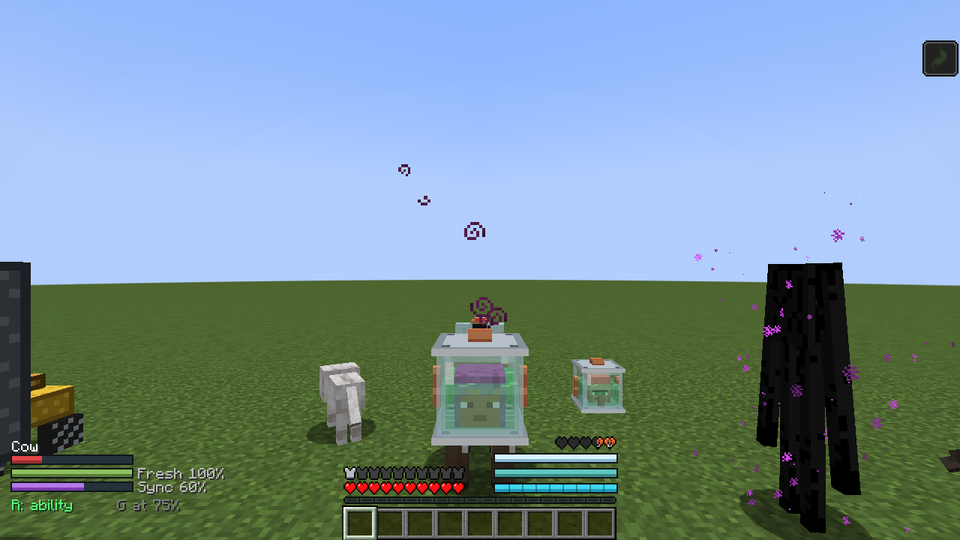
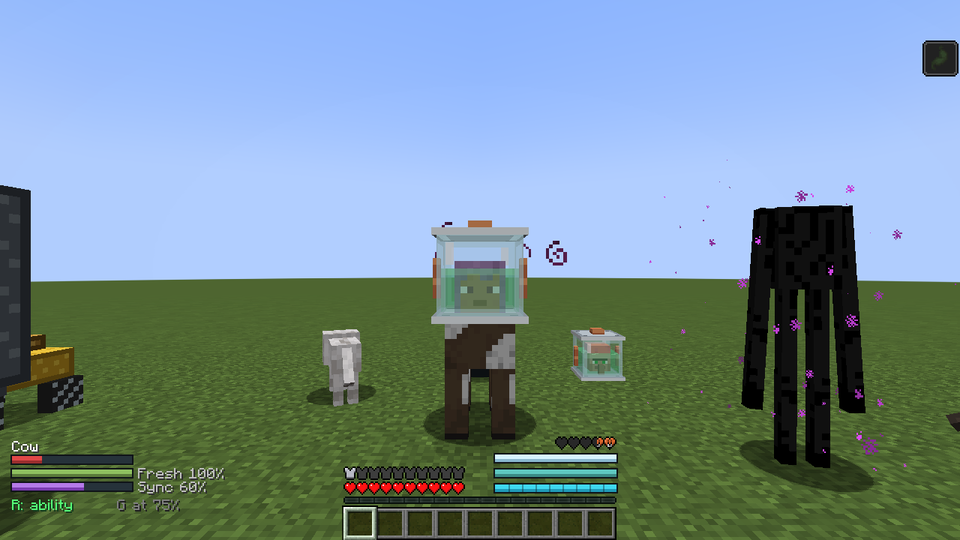
Seat the jar on a host's neck, square with its body
Riding a host the player had its full size back, and a full-size player rides 0.6 below the
seat, so the jar sank into every host's body (the Spider Walker's chassis showed inside the
glass). The jar now keeps its own size while hosted and sits on the neck. It also faces the
way the host's body faces instead of the rider's own body yaw, so it sits straight on the
neck; the head inside still looks where you look. README host pictures retaken.

diff --git a/src/smoke/java/com/coolfreeze23/headinajar/smoke/SmokeClient.java b/src/smoke/java/com/coolfreeze23/headinajar/smoke/SmokeClient.java
@@ -177,11 +177,19 @@ public class SmokeClient {
             }
             case "view" -> mc.options.setCameraType(net.minecraft.client.CameraType.values()[Integer.parseInt(parts[1])]);
             case "report" -> report.add(parts[1]);
+            // seatprobe ID,ID,...: renders each body with and without its head into a recorder and reports, in blocks from its
+            // feet (facing +Z): where the head was (centre x/z, lowest y) and the top of the body under a jar placed there
+            case "seatprobe" -> {
+                for (String id : parts[1].split(",")) report.add("seat " + id + " " + seatProbe(mc, id));
+            }
             // a real right-click, through the key binding, exactly as a player's mouse does it
             case "rightclick" -> net.minecraft.client.KeyMapping.click(mc.options.keyUse.getKey());
             case "riding" -> report.add("riding " + parts[1] + " -> " + (mc.player.getVehicle() == null ? "nothing"
                     : net.minecraft.core.registries.BuiltInRegistries.ENTITY_TYPE.getKey(mc.player.getVehicle().getType()))
-                    + " form=" + mc.player.getData(com.coolfreeze23.headinajar.registry.ModRegistry.JAR_STATE).form());
+                    + " form=" + mc.player.getData(com.coolfreeze23.headinajar.registry.ModRegistry.JAR_STATE).form()
+                    + (mc.player.getVehicle() instanceof net.minecraft.world.entity.LivingEntity v ? String.format(java.util.Locale.ROOT,
+                    " jarY-hostY=%.3f seatY=%.3f height=%.2f", mc.player.getY() - v.getY(),
+                    com.coolfreeze23.headinajar.host.HostControl.ridingPosition(v).y - v.getY(), mc.player.getBbHeight()) : ""));
             case "screen" -> mc.setScreen(switch (parts[1]) {
                 case "pause" -> new net.minecraft.client.gui.screens.PauseScreen(true);
                 default -> null;
@@ -541,5 +549,69 @@ public class SmokeClient {
         }
         LOGGER.info("SMOKE: finished, {} report lines", report.size());
         mc.stop();
+    }
+
+    private static String seatProbe(Minecraft mc, String id) {
+        var type = net.minecraft.core.registries.BuiltInRegistries.ENTITY_TYPE.get(net.minecraft.resources.ResourceLocation.parse(id));
+        var entity = type.create(mc.level);
+        if (!(entity instanceof net.minecraft.world.entity.LivingEntity living)) return "not living";
+        entity.setPos(0, 0, 0);
+        entity.setYRot(0);
+        living.yBodyRot = living.yBodyRotO = 0;
+        living.yHeadRot = living.yHeadRotO = 0;
+        java.util.List<org.joml.Vector3f> whole = record(mc, entity);
+        com.coolfreeze23.headinajar.host.Hosts.data(entity).host = true;
+        java.util.List<org.joml.Vector3f> headless = record(mc, entity);
+        java.util.Map<String, Integer> left = new java.util.HashMap<>();
+        for (var v : headless) left.merge(key(v), 1, Integer::sum);
+        java.util.List<org.joml.Vector3f> head = new java.util.ArrayList<>();
+        for (var v : whole) {
+            Integer n = left.get(key(v));
+            if (n != null && n > 0) left.put(key(v), n - 1);
+            else head.add(v);
+        }
+        float hx = 0, hz = 0, hMin = Float.MAX_VALUE;
+        for (var v : head) {
+            hx += v.x;
+            hz += v.z;
+            hMin = Math.min(hMin, v.y);
+        }
+        if (!head.isEmpty()) {
+            hx /= head.size();
+            hz /= head.size();
+        }
+        float top = -1, topNear = -1, allTop = -1;
+        for (var v : headless) {
+            allTop = Math.max(allTop, v.y);
+            if (Math.abs(v.x - hx) < 0.3f && Math.abs(v.z - hz) < 0.3f) top = Math.max(top, v.y);
+            if (Math.abs(v.x - hx) < 0.15f && Math.abs(v.z - hz) < 0.15f) topNear = Math.max(topNear, v.y);
+        }
+        return String.format(java.util.Locale.ROOT, "headVerts=%d headX=%.3f headZ=%.3f headMinY=%.3f bodyTop=%.3f bodyTopNear=%.3f allTop=%.3f bb=%.2fx%.2f",
+                head.size(), hx, hz, head.isEmpty() ? -1 : hMin, top, topNear, allTop, entity.getBbWidth(), entity.getBbHeight());
+    }
+
+    private static String key(org.joml.Vector3f v) {
+        return Math.round(v.x * 1000) + "," + Math.round(v.y * 1000) + "," + Math.round(v.z * 1000);
+    }
+
+    private static java.util.List<org.joml.Vector3f> record(Minecraft mc, net.minecraft.world.entity.Entity entity) {
+        java.util.List<org.joml.Vector3f> out = new java.util.ArrayList<>();
+        com.mojang.blaze3d.vertex.VertexConsumer sink = new com.mojang.blaze3d.vertex.VertexConsumer() {
+            public com.mojang.blaze3d.vertex.VertexConsumer addVertex(float x, float y, float z) {
+                out.add(new org.joml.Vector3f(x, y, z));
+                return this;
+            }
+            public com.mojang.blaze3d.vertex.VertexConsumer setColor(int r, int g, int b, int a) { return this; }
+            public com.mojang.blaze3d.vertex.VertexConsumer setUv(float u, float v) { return this; }
+            public com.mojang.blaze3d.vertex.VertexConsumer setUv1(int u, int v) { return this; }
+            public com.mojang.blaze3d.vertex.VertexConsumer setUv2(int u, int v) { return this; }
+            public com.mojang.blaze3d.vertex.VertexConsumer setNormal(float x, float y, float z) { return this; }
+        };
+        try {
+            mc.getEntityRenderDispatcher().getRenderer(entity).render(entity, 0, 0, new com.mojang.blaze3d.vertex.PoseStack(), type -> sink, 0xF000F0);
+        } catch (RuntimeException e) {
+            LOGGER.warn("seat probe could not render {}: {}", entity, e.toString());
+        }
+        return out;
     }
 }

diff --git a/src/main/java/com/coolfreeze23/headinajar/form/FormEvents.java b/src/main/java/com/coolfreeze23/headinajar/form/FormEvents.java
@@ -56,7 +56,8 @@ public final class FormEvents {
     public static void size(EntityEvent.Size event) {
         if (event.getEntity() instanceof Player player && player.hasData(ModRegistry.JAR_STATE)) {
             Form form = state(player).form();
-            if (form == Form.JAR || form == Form.SOCKET) event.setNewSize(JAR_SIZE);
+            // riding a host the jar keeps its own size: a full player size would seat it 0.6 below the neck, sunk into the body
+            if (form == Form.JAR || form == Form.SOCKET || form == Form.HOSTED) event.setNewSize(JAR_SIZE);
             else if (form == Form.LINKED && event.getPose() != net.minecraft.world.entity.Pose.SLEEPING
                     && !com.coolfreeze23.headinajar.item.QuantumItems.has(state(player).collar(), com.coolfreeze23.headinajar.item.QuantumItems.Upgrade.PERISCOPE_STALK)) {
                 event.setNewSize(LINKED_SIZE);

diff --git a/src/main/java/com/coolfreeze23/headinajar/client/JarRenderer.java b/src/main/java/com/coolfreeze23/headinajar/client/JarRenderer.java
@@ -66,6 +66,10 @@ public final class JarRenderer {
     /** A player in jar form. */
     public static void render(AbstractClientPlayer player, JarState state, float partialTick, PoseStack pose, MultiBufferSource buffers, int light) {
         float bodyYaw = Mth.rotLerp(partialTick, player.yBodyRotO, player.yBodyRot);
+        // on a host the jar sits square on its neck, facing the way its body faces; the head inside looks where you look
+        if (state.form() == com.coolfreeze23.headinajar.form.Form.HOSTED && player.getVehicle() instanceof net.minecraft.world.entity.LivingEntity host) {
+            bodyYaw = Mth.rotLerp(partialTick, host.yBodyRotO, host.yBodyRot);
+        }
         float headYaw = Mth.rotLerp(partialTick, player.yHeadRotO, player.yHeadRot);
         float pitch = Mth.lerp(partialTick, player.xRotO, player.getXRot());
         pose.pushPose();
